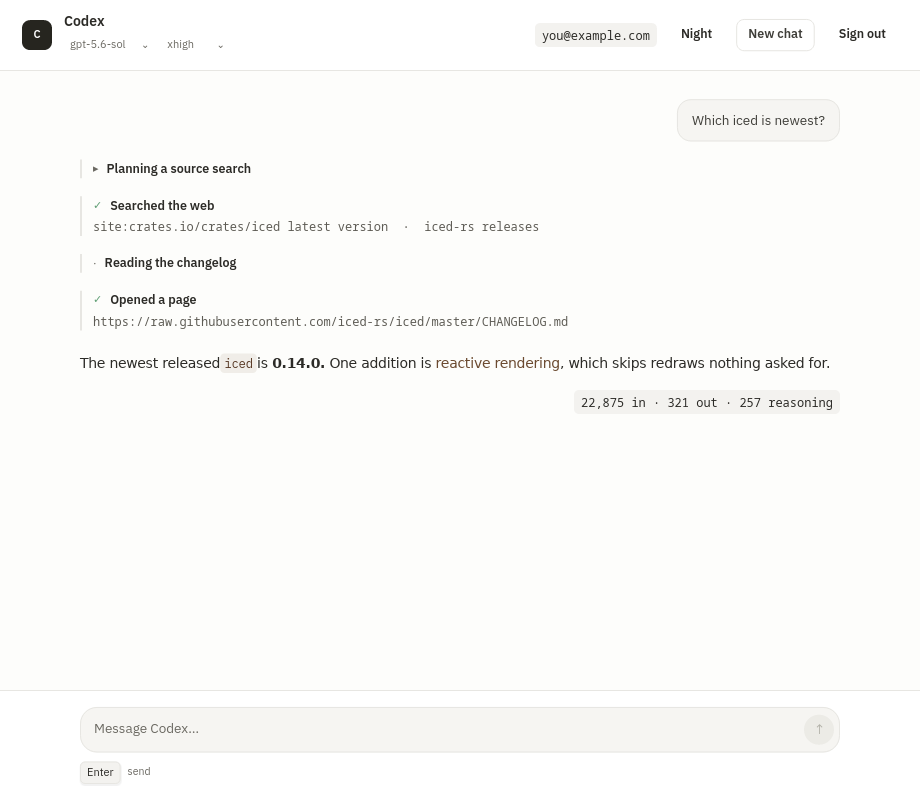
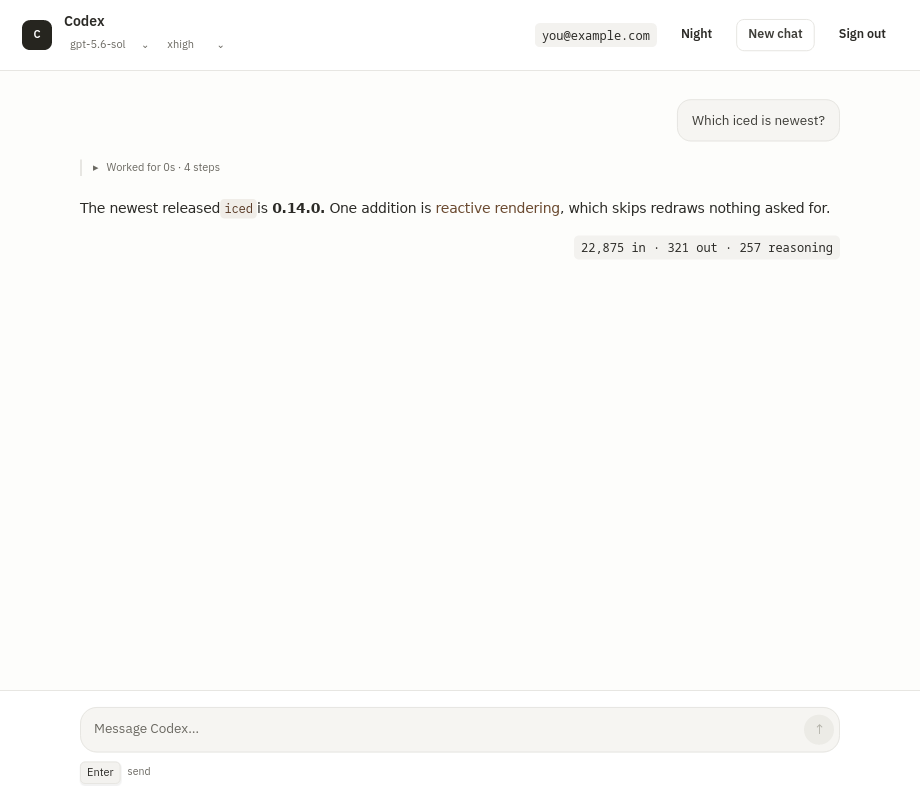
feat(ai-chat): fold a turn's working-out the way it is actually read
A turn is watched while it happens and read once it is done. It now folds
that way.

While it runs, the step happening is the one expanded: a tool call opens
when it starts and collapses to its own title the moment it finishes, so
mid-turn there is exactly one thing to look at rather than a growing pile
of finished ones.

When there is an answer to read instead, everything the turn did gathers
under one line — `Worked for 12s · 4 steps` — which opens again on click.
Reasoning keeps its own fold inside that, and a tool call keeps its
arguments behind a third. Nothing is discarded; a finished transcript
just reads as questions and answers.

Folded rows are filtered out of what the screen is handed rather than
drawn and hidden, so a folded turn costs no widgets. That alone took the
marginal cost of 138 extra rows from 74µs to 44µs per token.

diff --git a/examples/ai-chat/src/codex.rs b/examples/ai-chat/src/codex.rs
@@ -70,8 +70,14 @@ pub struct Entry {
     pub body: String,
     /// `running` while a tool is still working, `done` once it is not.
     pub status: String,
+    /// Which turn produced this row. Everything a turn did folds away together
+    /// under one summary once it is finished.
+    pub turn: i64,
     /// Whether a folded row is showing its body.
     pub open: bool,
+    /// Folded away inside a closed summary. Hidden rows are filtered out of
+    /// what the screen is handed, so a folded turn costs no widgets at all.
+    pub hidden: bool,
     /// Which palette this row was handed over for.
     ///
     /// A row carries it because `lazy` rebuilds a row only when the row
@@ -96,6 +102,7 @@ impl std::hash::Hash for Entry {
         self.id.hash(state);
         self.open.hash(state);
         self.dark.hash(state);
+        self.hidden.hash(state);
         // A running tool becomes a finished one in place, under one id.
         self.status.hash(state);
     }
@@ -110,7 +117,9 @@ impl Entry {
             detail: String::new(),
             body: String::new(),
             status: String::new(),
+            turn: 0,
             open: false,
+            hidden: false,
             dark: false,
         }
     }
@@ -183,6 +192,10 @@ pub struct Session {
 struct Transcript {
     input: Vec<Value>,
     entries: Vec<Entry>,
+    /// Which turn is being recorded, so its rows can be gathered afterwards.
+    turn: i64,
+    /// When the turn in progress started, for what its summary says.
+    started: Option<std::time::Instant>,
     dark: bool,
     /// Which model answers. Held here rather than read per turn, so choosing
     /// one applies to this chat and not to whatever the CLI is configured for.
@@ -196,14 +209,60 @@ struct Transcript {
 
 impl Transcript {
     /// The list as the screen should draw it now.
+    ///
+    /// Rows folded inside a closed summary are left out rather than drawn and
+    /// hidden, so a folded turn costs nothing to have on screen.
     fn snapshot(&self) -> Vec<Entry> {
         self.entries
             .iter()
+            .filter(|row| !row.hidden)
             .map(|row| Entry {
                 dark: self.dark,
                 ..row.clone()
             })
             .collect()
+    }
+
+    fn push(&mut self, entry: Entry) {
+        let turn = self.turn;
+        self.entries.push(Entry { turn, ..entry });
+    }
+
+    /// Gather everything this turn did under one summary and fold it away.
+    ///
+    /// A finished turn's working-out is context, not the answer. It stays open
+    /// while it is happening — that is the only time it is worth watching — and
+    /// closes once there is an answer to read instead.
+    fn close_work(&mut self) {
+        let turn = self.turn;
+        let is_work = |row: &Entry| {
+            row.turn == turn && matches!(row.kind.as_str(), "reasoning" | "tool") && !row.hidden
+        };
+        let Some(first) = self.entries.iter().position(is_work) else {
+            return;
+        };
+        let counted = self.entries.iter().filter(|row| is_work(row)).count();
+        let seconds = self.started.map_or(0, |at| at.elapsed().as_secs() as i64);
+
+        for row in self.entries.iter_mut().filter(|row| is_work(row)) {
+            row.hidden = true;
+        }
+        let summary = Entry::new("work", worked_for(seconds, counted));
+        self.entries.insert(first, Entry { turn, ..summary });
+    }
+
+    /// Show or hide one summary's rows.
+    fn fold_work(&mut self, id: i64) {
+        let Some(summary) = self.entries.iter_mut().find(|row| row.id == id) else {
+            return;
+        };
+        summary.open = !summary.open;
+        let (turn, open) = (summary.turn, summary.open);
+        for row in self.entries.iter_mut() {
+            if row.turn == turn && matches!(row.kind.as_str(), "reasoning" | "tool") {
+                row.hidden = !open;
+            }
+        }
     }
 
     /// Hand the list to the screen, once, because it changed.
@@ -215,6 +274,19 @@ impl Transcript {
             self.watcher = None;
         }
     }
+}
+
+/// What a finished turn's summary says it did.
+fn worked_for(seconds: i64, steps: usize) -> String {
+    let steps = if steps == 1 {
+        "1 step".to_owned()
+    } else {
+        format!("{steps} steps")
+    };
+    if seconds < 60 {
+        return format!("Worked for {seconds}s · {steps}");
+    }
+    format!("Worked for {}m {}s · {steps}", seconds / 60, seconds % 60)
 }
 
 impl Session {
@@ -376,7 +448,9 @@ pub fn push_user(session: Session, text: String) -> Vec<Entry> {
         "role": "user",
         "content": [{"type": "input_text", "text": text}],
     }));
-    state.entries.push(Entry::new("prompt", "").body(text));
+    state.turn += 1;
+    state.started = Some(std::time::Instant::now());
+    state.push(Entry::new("prompt", "").body(text));
     state.snapshot()
 }
 
@@ -386,7 +460,13 @@ pub fn push_user(session: Session, text: String) -> Vec<Entry> {
 /// settled row sits behind `lazy`, which redraws it only when the row changes.
 pub fn toggle_row(session: Session, id: i64) -> Vec<Entry> {
     let mut state = session.lock();
-    if let Some(row) = state.entries.iter_mut().find(|row| row.id == id) {
+    let summary = state
+        .entries
+        .iter()
+        .any(|row| row.id == id && row.kind == "work");
+    if summary {
+        state.fold_work(id);
+    } else if let Some(row) = state.entries.iter_mut().find(|row| row.id == id) {
         row.open = !row.open;
     }
     state.snapshot()
@@ -659,9 +739,13 @@ fn record(session: &Session, event: &Value) {
     match (kind, item_kind) {
         // A tool appears the moment it starts, so the screen can say so while
         // it is still working.
+        // A call that is still working stays open; one that has finished
+        // collapses to its own title. Mid-turn, that leaves exactly one step
+        // expanded — the one actually happening.
         ("response.output_item.added", "web_search_call") => {
-            let started = Entry::new("tool", "Web search").status("running");
-            state.entries.push(started);
+            let mut running = Entry::new("tool", "Searching the web").status("running");
+            running.open = true;
+            state.push(running);
         }
         ("response.output_item.done", "web_search_call") => {
             let (title, detail) = search_action(&item["action"]);
@@ -681,21 +765,19 @@ fn record(session: &Session, event: &Value) {
             let summary = summary_text(&item["summary"]);
             if !summary.trim().is_empty() {
                 let (title, body) = headed(&summary);
-                state
-                    .entries
-                    .push(Entry::new("reasoning", title).body(body));
+                state.push(Entry::new("reasoning", title).body(body));
             }
         }
         ("response.output_item.done", "message") => {
             let text = message_text(&item["content"]);
             if !text.trim().is_empty() {
-                state.entries.push(Entry::new("answer", "").body(text));
+                state.push(Entry::new("answer", "").body(text));
             }
         }
         // Anything this build does not model is still a row, because a chat
         // window that silently drops part of a turn is misreporting it.
         ("response.output_item.done", other) if !other.is_empty() => {
-            state.entries.push(
+            state.push(
                 Entry::new("tool", other)
                     .detail(item["status"].as_str().unwrap_or("done"))
                     .body(format!(
@@ -706,9 +788,8 @@ fn record(session: &Session, event: &Value) {
             );
         }
         ("response.completed", _) => {
-            state
-                .entries
-                .push(Entry::new("usage", "").detail(tokens(&event["response"]["usage"])));
+            state.close_work();
+            state.push(Entry::new("usage", "").detail(tokens(&event["response"]["usage"])));
         }
         _ => return,
     }
@@ -953,45 +1034,103 @@ pub fn sample_session(dark: bool) -> Session {
     let session = codex_session();
     let mut state = session.lock();
     state.dark = dark;
-    state.entries = sample_entries(dark);
+    state.entries = sample_rows(dark);
+    state.turn = 1;
     drop(state);
     session
 }
 
 pub fn sample_entries(dark: bool) -> Vec<Entry> {
+    sample_rows(dark)
+        .into_iter()
+        .filter(|row| !row.hidden)
+        .collect()
+}
+
+/// A turn caught in the middle: one step done and closed, one still running.
+pub fn sample_running(dark: bool) -> Vec<Entry> {
+    let row = |id: i64, open: bool, entry: Entry| Entry {
+        id,
+        turn: 1,
+        open,
+        dark,
+        ..entry
+    };
+    vec![
+        row(
+            -21,
+            false,
+            Entry::new("prompt", "").body("Which version of iced is current?"),
+        ),
+        row(
+            -22,
+            false,
+            Entry::new("reasoning", "Checking the crate before answering")
+                .body("The version could have moved since training."),
+        ),
+        row(
+            -23,
+            false,
+            Entry::new("tool", "Searched the web")
+                .detail("site:crates.io/crates/iced latest version")
+                .status("done"),
+        ),
+        row(
+            -24,
+            true,
+            Entry::new("tool", "Searching the web").status("running"),
+        ),
+    ]
+}
+
+/// The whole turn, folded as a finished one is: the working-out is present but
+/// tucked under its summary, which is the state a transcript is read in.
+fn sample_rows(dark: bool) -> Vec<Entry> {
     // Fixed, negative ids. Live rows count up from one, so a sample row can
     // never collide with a real one — in the Markdown cache or in a widget
     // path — and a test can name a row by hand.
-    let row = |id: i64, entry: Entry| Entry { id, dark, ..entry };
+    let row = |id: i64, hidden: bool, entry: Entry| Entry {
+        id,
+        turn: 1,
+        hidden,
+        dark,
+        ..entry
+    };
     vec![
         row(
             -1,
+            false,
             Entry::new("prompt", "").body(
                 "Which version of iced is current, and how do I stream a reply into a \
                  Markdown view?",
             ),
         ),
+        row(-2, false, Entry::new("work", worked_for(12, 4))),
         row(
-            -2,
+            -3,
+            true,
             Entry::new("reasoning", "Checking the crate before answering").body(
                 "The version could have moved since training, so it is worth a look \
                  rather than a guess.",
             ),
         ),
         row(
-            -3,
+            -4,
+            true,
             Entry::new("tool", "Searched the web")
                 .detail("site:crates.io/crates/iced latest version  ·  iced-rs releases")
                 .status("done"),
         ),
         row(
-            -4,
+            -5,
+            true,
             Entry::new("tool", "Opened a page")
                 .detail("https://crates.io/crates/iced")
                 .status("done"),
         ),
         row(
-            -5,
+            -6,
+            false,
             Entry::new("answer", "").body(
                 "**iced 0.14** is current.\n\nFor the Markdown view, append to the parsed \
                  document instead of rebuilding it:\n\n\
@@ -1006,7 +1145,8 @@ pub fn sample_entries(dark: bool) -> Vec<Entry> {
             ),
         ),
         row(
-            -6,
+            -7,
+            false,
             Entry::new("usage", "").detail("2,914 in · 268 out · 192 reasoning"),
         ),
     ]
@@ -1061,6 +1201,10 @@ mod tests {
         let running = rows(&session);
         assert_eq!(running.len(), 1, "the tool appears immediately");
         assert_eq!(running[0].status, "running");
+        assert!(
+            running[0].open,
+            "the step happening now is the one to watch"
+        );
 
         record(
             &session,

diff --git a/examples/ai-chat/README.md b/examples/ai-chat/README.md
@@ -32,10 +32,20 @@ transcript is a flat, ordered list of everything the turn produced:
 | Row | What it is |
 | --- | --- |
 | prompt | what was asked, in a bubble on its own side |
-| reasoning | a summary, folded away under the subject it names |
-| tool | a web search or page open, drawn while it runs and again when it lands |
+| work | one line — `Worked for 12s · 4 steps` — holding everything below it |
+| reasoning | a summary, folded under the subject it names |
+| tool | a search or page open; its arguments are behind its own fold |
 | answer | Markdown — headings, lists, code blocks, links |
 | usage | what the turn cost |
+
+A turn is watched while it happens and read once it is done, and it folds
+accordingly. The step running now stays open; each step collapses to its own
+title as it finishes; and when there is an answer to read instead, the whole
+turn's working-out gathers under one line. Nothing is thrown away — every fold
+opens — but a finished transcript reads as questions and answers.
+
+Folded rows are left out of what the screen is handed rather than drawn and
+hidden, so a folded turn costs no widgets at all.
 
 An item this build does not model still becomes a row rather than being
 dropped, because a chat window that silently swallows part of a turn is
